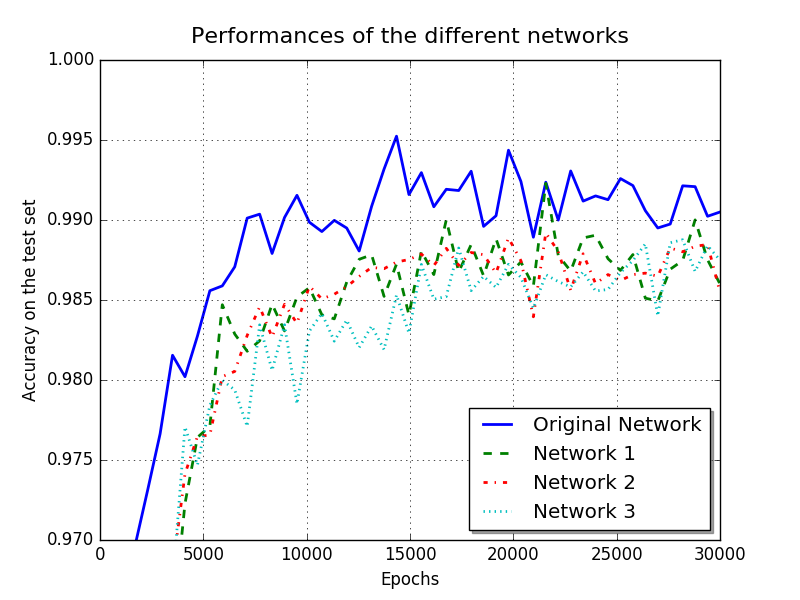
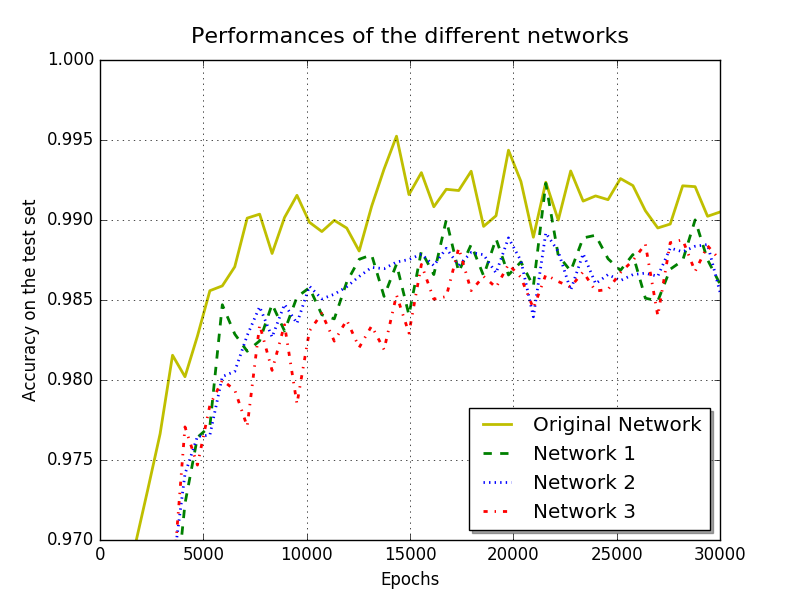
Change plots and complete the report

diff --git a/report/10_models.tex b/report/10_models.tex
@@ -27,13 +27,12 @@ Note that the image is reshaped into a one dimensional array after the second Po
 
 At each training step, the network is trained with a batch of 50 images, randomly selected from the train dataset.
 The network is trained to minimize the generalized cross entropy function for a multiclass problems.
-After 20000 epochs of training, the network has an accuracy of $99.17\%$ on the complete test set.
-It is not clear if the accuracy could get better with more training, since its accuracy over time is not stable (see \cref{fig:performances}).
+After 30000 epochs of training, the network has an accuracy of $99.22\%$ on the complete test set.
 
 \begin{figure}[t]
 	\centering
 	\includegraphics[width=\columnwidth]{figures/performances}
-	\caption{The graph shows the performances of the different networks on the test set over epochs of training. The plotted accuracies are measured on a random fixed subset of $1000$ elements of the test set, equal for all the networks.}
+	\caption{The graph shows the performances of the different networks on the test set over epochs of training. The plotted accuracies are measured on a random fixed subset of $2000$ elements of the test set, equal for all the networks.}
 	\label{fig:performances}
 \end{figure}
 
@@ -44,20 +43,18 @@ The first modification to the original model consist in removing the first level
 The second Convolutional layer is now directly applied to the original image.
 The rest of the network and all hyperparameters are unchanged.
 
-The performance of the network is closed to the original one, with an accuracy of $98.99\%$ on the test set.
-As for the original model, it is not clear whether the accuracy could increase with more training. 
+The performance of the network is closed to the original one, with an accuracy of $99.07\%$ on the test set.
 
 
 \subsection{Model 2}
 
 The second modification is very similar to the previous one. Instead of removing the first one, we are removing the second Convolution and Pooling layers.
 The resulting network is almost identical to Model 1, but with the difference that the layer is computing 32 filters instead of 64.
-The accuracy of this model is $98.94\%$.
+The accuracy of this model is $99.02\%$, only slightly worse than model 1.
 
 
 \subsection{Model 3}
 
-The third moditifaction consist in removing the Fully Connected layer.
-The accuracy of this network is slighly worse then the other models and scores $98.89\%$.
+The third modification consist in removing the Fully Connected layer.
+The accuracy of this network is slightly worse then the other models and scores $99.03\%$.
 This is probably due to the absence of any fully connected layer that properly combines the features extracted by the convolutional layer.
-Like for the other networks, it is not clear if the performances can improve with more training.

diff --git a/report/11_conclusion.tex b/report/11_conclusion.tex
@@ -4,22 +4,26 @@
 None of the proposed modification achieved to improve the accuracy of the original network.
 The results are summarized in table \cref{tab:summary}.
 The two layers of convolution were able to extract better features then the single layers of models 1 and 2.
-The worse performances of model 3 suggest the need of at least one Fully Connected layer to learn how to combine the features extracted by the previous layers in order to make accurate predicitons.
+Both the final performances and their evolution over the training epochs (\cref{fig:performances}) of all modified models are very closed to each other.
+Model 1 seems to perform slightly better then the other two, even though some more experiments are required in order to get a confident result.
+The worse performances of model 2 and 3 suggest the need of to compute very complex features in order to achieve a very high score on the image classification.
+
 
 \begin{table}
 	\centering
-	\caption{Summary of the performances of the different networks}
+	\caption{Summary of the accuracies on the test set of the different networks at different epochs}
 	\label{tab:summary}
 	\begin{tabular}{lccc}
 		\toprule
 			\multicolumn{1}{l}{Network} &
-			\multicolumn{1}{c}{Accuracy (train)} &
-			\multicolumn{1}{c}{Accuracy (test)} \\
+			\multicolumn{1}{c}{Epoch 10000} &
+			\multicolumn{1}{c}{Epoch 20000} &
+			\multicolumn{1}{c}{Epoch 30000} \\
 		\midrule
-			Original & 1.0000 & 0.9917 \\
-			Model 1  & 1.0000 & 0.9899 \\
-			Model 2  & 0.9962 & 0.9894 \\
-			Model 3  & 0.9950 & 0.9888 \\
+			Original & 99.11 \% & 99.21 \% & 99.22 \% \\
+			Model 1  & 98.68 \% & 98.94 \% & 99.07 \% \\
+			Model 2  & 98.75 \% & 98.96 \% & 99.02 \% \\
+			Model 3  & 98.51 \% & 98.86 \% & 99.03 \% \\
 		\bottomrule
 	\end{tabular}
 \end{table}

diff --git a/code/plots.py b/code/plots.py
@@ -2,6 +2,7 @@ from export_utitilies import mkdir
 import numpy as np
 import matplotlib.pyplot as plt
 from scipy.interpolate import interp1d
+from cycler import cycler
 
 
 def smooth(x, y):
@@ -30,13 +31,16 @@ def main():
     # always disable interactive mode
     plt.ioff()
 
+    plt.rc('lines', linewidth=2)
+    plt.rc('axes', prop_cycle=(cycler('color', ['y', 'g', 'b', 'r']) + cycler('linestyle', ['-', '--', ':', '-.'])))
+
     # create normal plot
     fig1 = plt.figure()
     ax = fig1.add_subplot(111)
-    ax.plot(epoch_comp_smooth, test_acc_comp_smooth, '-', label='Original Network', linewidth=2.0)
-    ax.plot(epoch_1_smooth, test_acc_1_smooth, '--', label='Network 1', linewidth=2.0)
-    ax.plot(epoch_2_smooth, test_acc_2_smooth, '-.', label='Network 2', linewidth=2.0)
-    ax.plot(epoch_3_smooth, test_acc_3_smooth, ':', label='Network 3', linewidth=2.0)
+    ax.plot(epoch_comp_smooth, test_acc_comp_smooth, label='Original Network')
+    ax.plot(epoch_1_smooth, test_acc_1_smooth, label='Network 1')
+    ax.plot(epoch_2_smooth, test_acc_2_smooth, label='Network 2')
+    ax.plot(epoch_3_smooth, test_acc_3_smooth, label='Network 3')
     ax.set_title('Performances of the different networks', fontsize=16, y=1.02)
     ax.legend(loc='lower right', shadow=True)
     ax.set_xlabel('Epochs')
